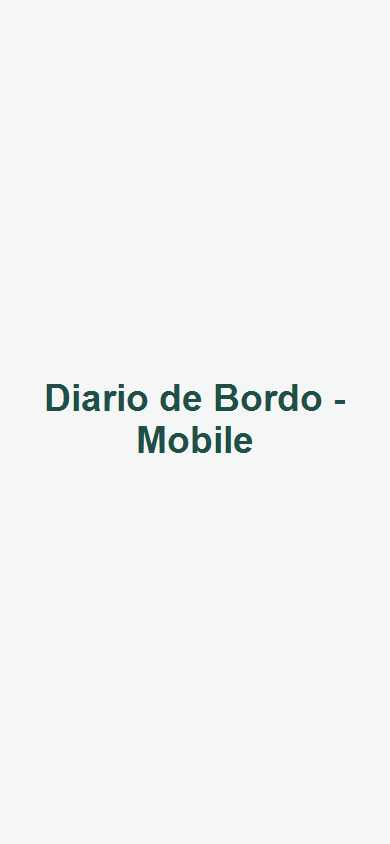
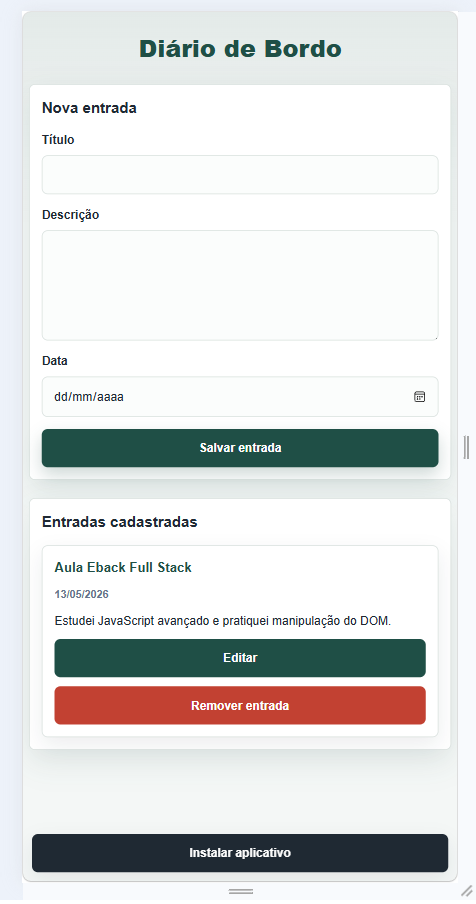
docs: corrige screenshots reais do README

diff --git a/README.md b/README.md
@@ -23,13 +23,13 @@ A aplicação permite cadastrar entradas com título, descrição e data, listar
 
 ## Demonstração
 
-### Desktop
+### Área de trabalho
 
-![Demonstração desktop do Diário de Bordo](./screenshots/desktop.png)
+![Diário de Bordo - Desktop](./screenshots/desktop.png)
 
-### Mobile
+### Móvel
 
-![Demonstração mobile do Diário de Bordo](./screenshots/mobile.png)
+![Diário de Bordo - Mobile](./screenshots/mobile.png)
 
 ---
 